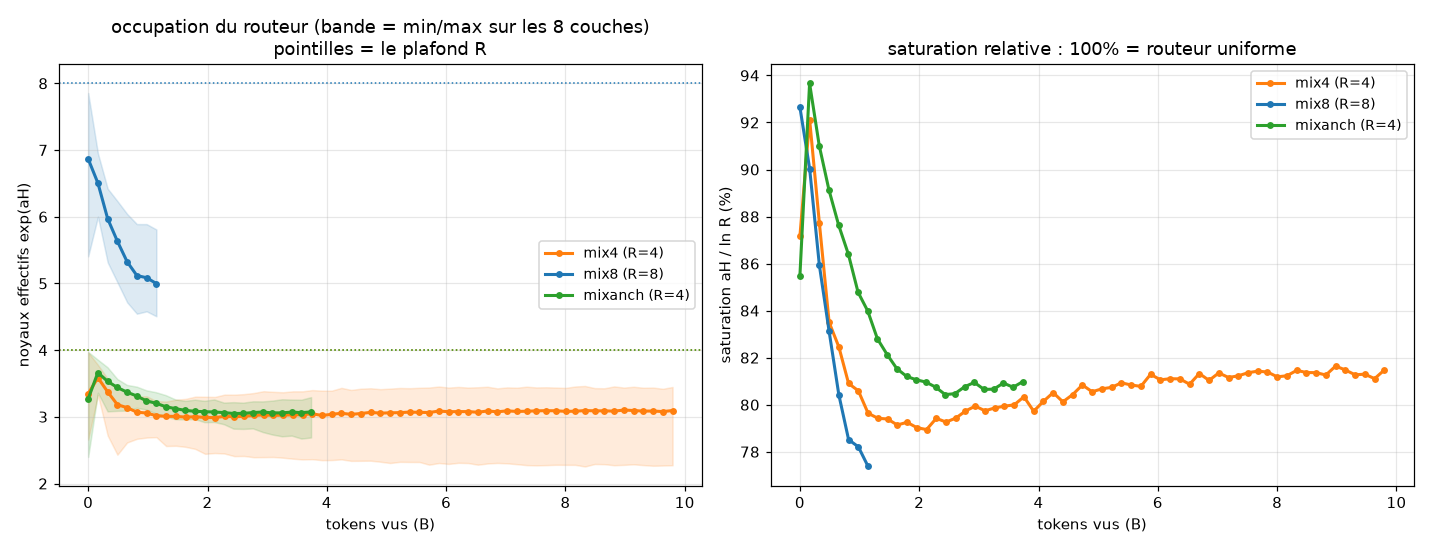
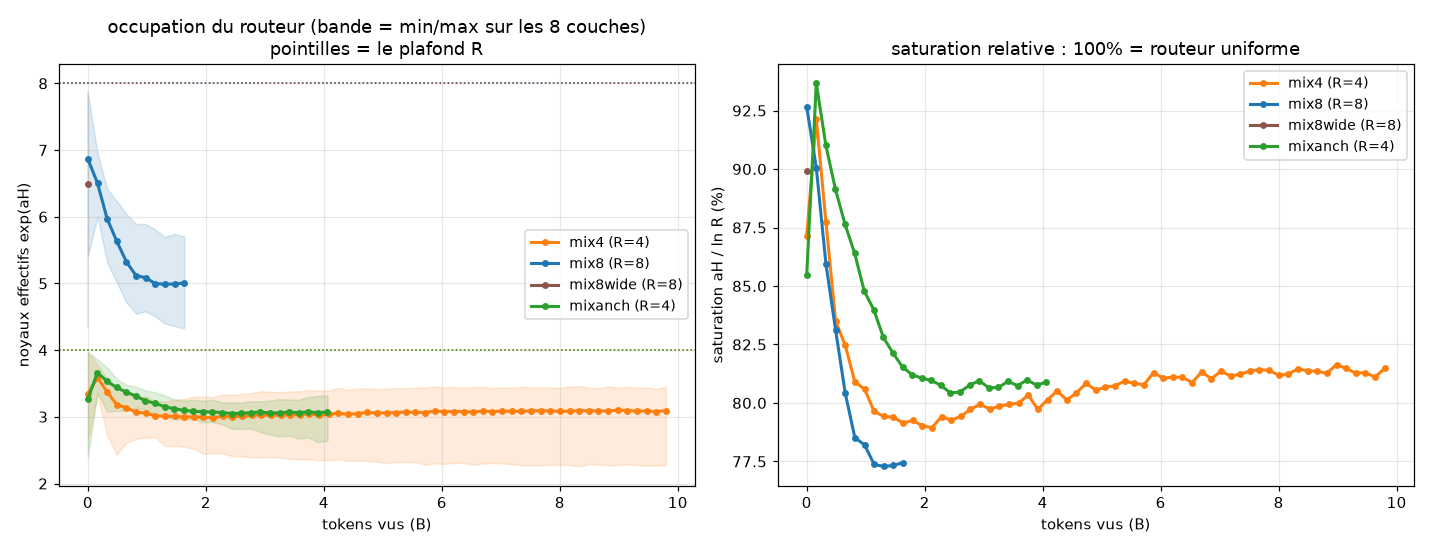
M is cheap in parameters and expensive in everything else
Sweep of M at dv=512, blocked ABBA on the GB10:

    M   dv        total      mixer   state/seq    throughput
  256  256  120,082,712 20,130,840    6256 KiB    --
  256  512  136,872,216 36,920,344   11368 KiB   -14.63%
  128  512  135,805,208 35,853,336    7272 KiB    -7.78%
   64  512  135,271,704 35,319,832    5224 KiB    -4.65%
   32  512  135,004,952 35,053,080    4200 KiB    -3.09%
   16  512  134,871,576 34,919,704    3688 KiB    -1.96%

Sixteen times fewer modes costs 5.4% of the mixer's parameters. Over the
same range the state falls 68% and the throughput loss goes from -14.6%
to -2.0%. That is the profile of redundancy, not of capacity: capacity
is paid for in parameters.

M=32/dv=512 is the striking point. Against the dv256 arm: +12.4%
parameters, -33% state, -3.1% throughput, and twice the value width. It
carries LESS recurrent state than the arm it would replace.

mix8wide is at M=128, so it is not the best point on this curve. Left
running: against an M=32/dv=512 arm it gives a clean dose-response on M
at fixed dv, which is the question.

Also fixed: fig_zoom raised IndexError on an arm whose only eval is the
untrained step-1 one, because the filter leaves an empty list and
np.array([]) is 1-D. reshape(-1, 2) makes it draw nothing instead.

diff --git a/campaign_plots.py b/campaign_plots.py
@@ -29,11 +29,11 @@ LOG = ROOT / "runs" / "zyda.jsonl"
 OUT = ROOT / "plot"          # where every figure in this repo has always gone
 
 # arm -> slot it ran on, so elapsed seconds can be put on one clock
-SLOT = {"z_dv256": 0, "z_gdn": 2, "z_mixanch": 3,
+SLOT = {"z_dv256": 0, "z_mix8wide": 0, "z_gdn": 2, "z_mixanch": 3,
         "z_mix4": 1, "z_mixsal": 1, "z_mix8": 1, "z_dv384": 1, "z_dsoft": 1}
-COL = {"z_gdn": "k", "z_dv256": "tab:purple", "z_mix4": "tab:orange",
+COL = {"z_gdn": "k", "z_dv256": "tab:purple", "z_mix4": "tab:orange", "z_mix8wide": "tab:brown",
        "z_mix8": "tab:blue", "z_mixanch": "tab:green", "z_mixsal": "tab:red"}
-R_OF = {"z_mix4": 4, "z_mix8": 8, "z_mixanch": 4, "z_mixsal": 4, "z_dv256": 1}
+R_OF = {"z_mix4": 4, "z_mix8": 8, "z_mix8wide": 8, "z_mixanch": 4, "z_mixsal": 4, "z_dv256": 1}
 
 
 def host_factors() -> dict[str, float]:
@@ -63,8 +63,12 @@ def fig_zoom(h, fac, arms, ref="z_mix4", hours=8.0, name="zyda_zoom.png"):
                                  gridspec_kw={"height_ratios": [2, 1]})
     # the step-1 eval is the untrained model: it compresses the y axis by two
     # nats and says nothing about any arm
+    # reshape(-1, 2): an arm whose only eval is the untrained step-1 one filters
+    # down to an EMPTY list, and np.array([]) is 1-D, so the column index below
+    # raises instead of drawing nothing.
     xy = {m: np.array([(r["train_s"] * fac[m] / 3600, r["val"])
-                       for r in h[m] if r["train_s"] > 300]) for m in arms}
+                       for r in h[m] if r["train_s"] > 300],
+                      dtype=float).reshape(-1, 2) for m in arms}
     rf = xy[ref]
     for m in arms:
         a = xy[m][xy[m][:, 0] <= hours]
@@ -92,7 +96,7 @@ def fig_zoom(h, fac, arms, ref="z_mix4", hours=8.0, name="zyda_zoom.png"):
     print(f"saved {OUT.name}/{name}")
 
 
-def fig_router(h, arms=("z_mix4", "z_mix8", "z_mixanch")):
+def fig_router(h, arms=("z_mix4", "z_mix8", "z_mix8wide", "z_mixanch")):
     """Effective kernels exp(aH): does a router given 8 keep more than one given 4?
 
     Plotted against tokens, not hours: the routers are compared at equal data
@@ -165,7 +169,7 @@ def fig_omega(h, m="z_mixanch"):
 def main() -> None:
     h, fac = load(), host_factors()
     print("arms: " + ", ".join(f"{m[2:]}({len(h[m])})" for m in h))
-    fig_zoom(h, fac, ["z_gdn", "z_mix4", "z_mix8", "z_mixanch", "z_mixsal", "z_dv256"],
+    fig_zoom(h, fac, ["z_gdn", "z_mix4", "z_mix8", "z_mix8wide", "z_mixanch", "z_mixsal", "z_dv256"],
              hours=8.0)
     fig_router(h)
     fig_omega(h)
